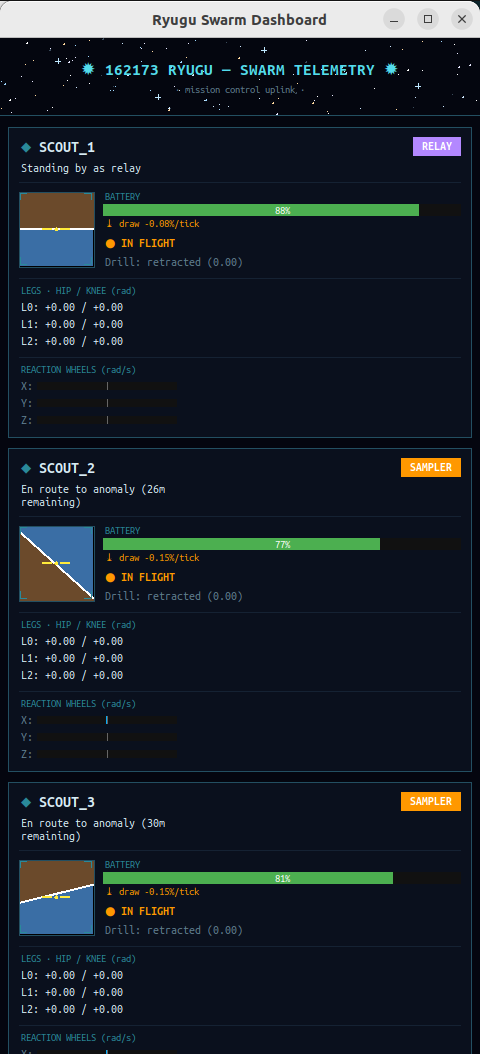
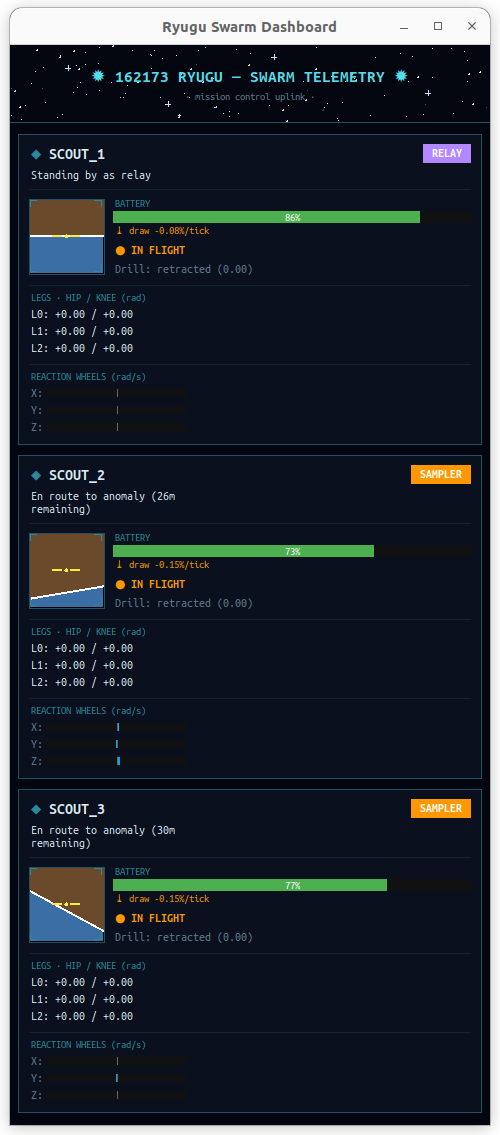
Paper figures finalized: live-simulation screenshots throughout (environment vista, realized model, mid-hop, full dashboard), AI concept render removed, visible captions under every figure, numbering in document order

Changed region(s): [[0.0, 0.0, 1.0, 1.0], [0.4688, 0.8805, 0.5, 0.9108]]

diff --git a/docs/Research_Paper.md b/docs/Research_Paper.md
@@ -20,13 +20,17 @@ Accurate physical evaluation of locomotion strategies necessitates a high-fideli
 
 A 1025×1025 collision heightmap was derived from the official Hayabusa2 Structure-from-Motion shape model (`SHAPE_SFM_49k_v20180804.obj`) [3]. The selected cross-section reflects the dense cratering and rocky ridges characteristic of Ryugu's equatorial band, mapped onto a 100 m × 100 m traversal field with 5 m of vertical relief.
 
-![Figure 1: Lateral X-axis projection heightmap derived from the Hayabusa2 SfM shape model, detailing Ryugu's equatorial ridge.](heightmap_preview.png)
+![Terrain heightmap](heightmap_preview.png)
+
+*Figure 1: Lateral X-axis projection heightmap derived from the Hayabusa2 SfM shape model, detailing Ryugu's equatorial ridge.*
 
 ### 2.2 Microgravity and Illumination
 
 The gravity vector was set to 1.14×10⁻⁴ m/s², the lower bound of Ryugu's latitude-dependent surface gravity [1] and the most demanding case for traction and rebound control. The celestial backdrop is the ESO/S. Brunier Milky Way panorama mapped onto an equirectangular sky sphere [4]; scene illumination is a single directional source representing the Sun, consistent with Ryugu's atmosphere-free lighting. Solar power is physically plausible at Ryugu's 0.96–1.42 AU orbit (~960 W/m² at the 1.19 AU semi-major axis — the same regime in which the solar-powered MINERVA-II rovers operated [8]).
 
-![Figure 3: The simulated environment — heightmap regolith terrain beneath the ESO Milky Way panorama, with a scout (green status LEDs, center-left) descending toward the surface.](fig_swarm_terrain.png)
+![Simulated environment](fig_swarm_terrain.png)
+
+*Figure 2: The simulated environment — heightmap regolith terrain beneath the ESO Milky Way panorama, with a landed scout in the foreground and a second agent visible against the galactic band.*
 
 ### 2.3 Software Architecture
 
@@ -57,7 +61,7 @@ flowchart LR
     BR -- "IMU, odometry" --> ATT & LAND & SM & GUI
 ```
 
-*Figure 4: System architecture. The `landed` and `righting_active` flags implement strict actuator arbitration — exactly one node commands any actuator at any time (§7).*
+*Figure 3: System architecture. The `landed` and `righting_active` flags implement strict actuator arbitration — exactly one node commands any actuator at any time (§7).*
 
 ## 3. System Design
 
@@ -74,9 +78,9 @@ The SpaceHopper is a compact, 2.50 kg tri-pedal robot whose mass distribution ke
 | **Thermal & Solar** | GaAs solar arrays, Kapton MLI blankets | 0.15 | 6% |
 | **Total Operational Mass** | | **2.50 kg** | **100%** |
 
-![Figure 2: Rendering of the SpaceHopper concept, showcasing the GaAs solar arrays, thermal louvers, and articulated legs.](spacehopper_concept_1783933381656.png)
+![The SpaceHopper model](fig_robot_closeup.png)
 
-![Figure 5: The realized simulation model descending over the regolith — articulated tri-pedal legs with spherical feet, hip status LEDs, solar panel, and the Milky Way backdrop.](fig_robot_closeup.png)
+*Figure 4: The SpaceHopper model on the simulated regolith — tri-pedal articulated legs with spherical feet, solar array, stereo hazard cameras, and hip status LEDs casting the characteristic green underglow.*
 
 ### 3.1 Jumping Dynamics
 
@@ -89,6 +93,10 @@ and with a leg stroke of $d = 0.1$ m, a mean thrust of only $F = E_p/d = 1.4\tim
 **Launch stroke geometry.** Total foot–regolith friction capacity is $\mu m g \approx 2.9\times10^{-4}$ N; any lateral component of leg force therefore slides the feet rather than lifting the body. The deployed stroke keeps each foot directly beneath its hip through the entire extension (a "zigzag" leg posture — calf angled back inward), so the ground reaction remains vertical. Distance-scaled hopping treats the commanded stroke as a fraction of the full extension, calibrated by the measured full-stroke separation velocity $V_{FULL} = 0.025$ m/s.
 
 **Directional hopping.** A purely vertical stroke has no ground range. Directionality is obtained by combining reaction-wheel yaw pointing (the swarm layer commands a target heading; the yaw-hold loop aligns the body) with a modest forward-lean differential built into the crouch (the leading leg is flexed 0.25 rad further, the trailing pair 0.125 rad less, preserving mean stance height). The lean tilts the thrust vector approximately 34° from vertical, partitioning the measured 24.9 mm/s separation velocity into ~22 mm/s vertical and ~15 mm/s horizontal components. Measured single-hop performance: **9.1 m of horizontal displacement** over a clean ballistic arc (apex +2.2 m, ~13-minute flight), landing settled and confirmed. The launch-torque asymmetry introduced by the lean is bounded and removed within seconds by the attitude controller (§3.2).
+
+![Directional hop in flight](fig_hop_flight.png)
+
+*Figure 5: A scout mid-hop. The forward lean is visible in the body attitude; the shadow on the regolith below shows the altitude gained within seconds of the stroke.*
 
 #### 3.1.1 Escape-Velocity Margin and Containment
 
@@ -235,11 +243,13 @@ sequenceDiagram
     end
 ```
 
-*Figure 8: Auction-based tasking and sampling sequence, as executed live by the three-agent swarm.*
+*Figure 7: Auction-based tasking and sampling sequence, as executed live by the three-agent swarm.*
 
 Robustness mechanisms, each mapped to an observed failure mode of naive dispatching: unfinished tasks are re-queued when an agent is forced to RECHARGE or drops offline (10 s odometry-liveness watchdog); arrival is gated on real odometry (within 3 m *and* landed); journeys are dispatched as range-matched legs of at most the measured 9 m hop range, with up to five cooldown-paced corrective re-hops held as an error-correction reserve; core extraction occupies a finite 8 s drill dwell so the power model reflects a real duty cycle; and task coordinates are clamped inside the physical containment boundary, so no assignment is unreachable by construction.
 
-![Figure 9: The mission telemetry dashboard during a live run — differentiated roles (one RELAY, two SAMPLERs en route), per-agent battery and charge rate, attitude indicators, leg and reaction-wheel state.](fig_dashboard.png)
+![Mission telemetry dashboard](fig_dashboard.png)
+
+*Figure 8: The mission telemetry dashboard during a live run — differentiated roles (one RELAY, two SAMPLERs en route), per-agent battery and charge rate, attitude indicators, leg and reaction-wheel state.*
 
 ## 5. Scientific Payload
 
@@ -250,9 +260,11 @@ Unlike explosive kinetic impactors, the SpaceHopper performs delicate, non-destr
 All results below are from live closed-loop simulation telemetry (IMU, odometry, and physics-engine ground truth), not open-loop estimates.
 
 * **Launch:** full-stroke separation velocity 24.9 mm/s at the deployed damping — 35% margin over the 18.5 mm/s a 3 m hop requires. Clean ballistic arcs with apex energy matching $v^2/2g$ within measurement noise.
-* **Directional range:** 9.1 m horizontal displacement per full-stroke hop (thrust tilt ≈34°, ~15 mm/s horizontal / ~22 mm/s vertical), landing settled and confirmed. Figure 7 shows the measured trajectory.
+* **Directional range:** 9.1 m horizontal displacement per full-stroke hop (thrust tilt ≈34°, ~15 mm/s horizontal / ~22 mm/s vertical), landing settled and confirmed. Figure 9 shows the measured trajectory.
 
-![Figure 7: Measured single-hop trajectory from odometry telemetry — (a) the ballistic altitude profile (apex +2.2 m over a ~13-minute flight) and (b) the straight-line ground track covering 9.1 m.](fig_hop_trajectory.png)
+![Measured hop trajectory](fig_hop_trajectory.png)
+
+*Figure 9: Measured single-hop trajectory from odometry telemetry — (a) the ballistic altitude profile (apex +2.2 m over a ~13-minute flight) and (b) the straight-line ground track covering 9.1 m.*
 * **Flight stabilization:** in-flight body rates damped to 0.005–0.015 rad/s; launch transients of 0.24 rad/s removed within seconds; no persistent yaw spin. A commanded 107° yaw slew converged overdamped and held within 1° at zero rate; a 165° tumble was damped to 3.6° in ~20 s.
 * **Self-righting:** recovery from forced full inversion in ~9 s via the reaction-wheel roll, including self-correction of an initial wrong-direction guess.
 * **Landing:** decaying-bounce settle and confirmed LANDED in ~14 min after a full-stroke hop; no false confirmations in flight and no post-landing self-ejection across the final verification runs.